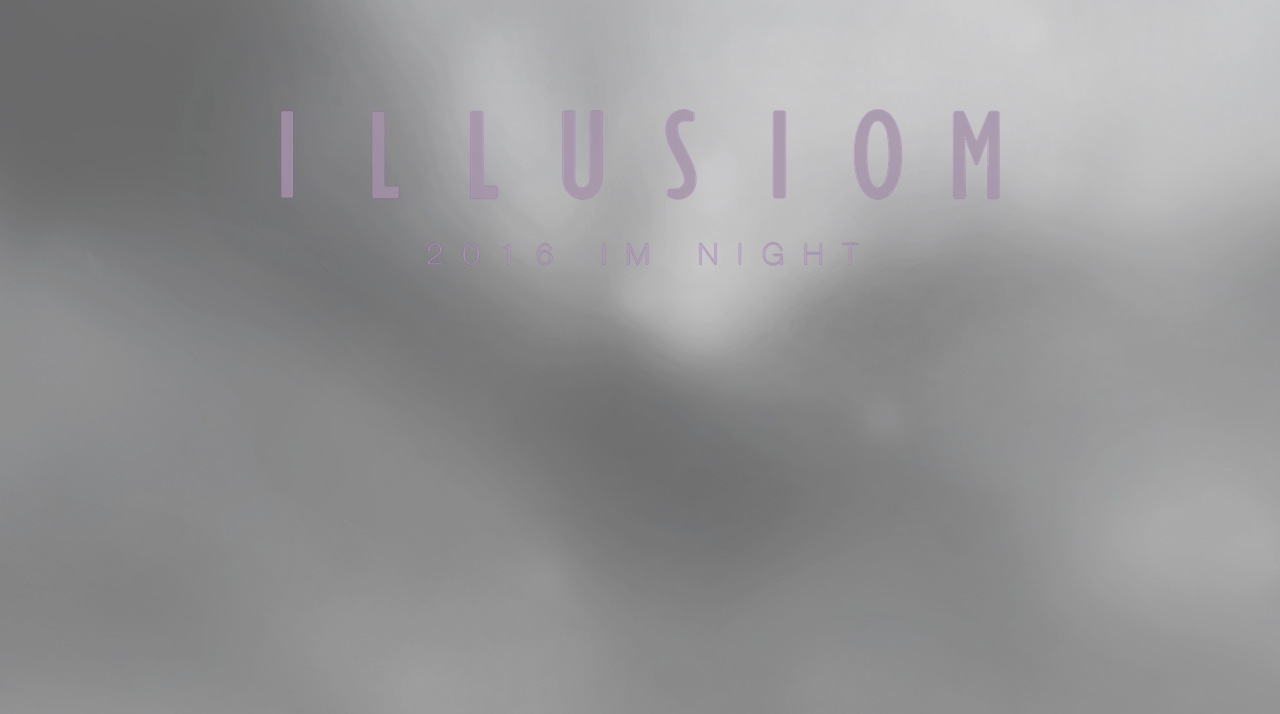
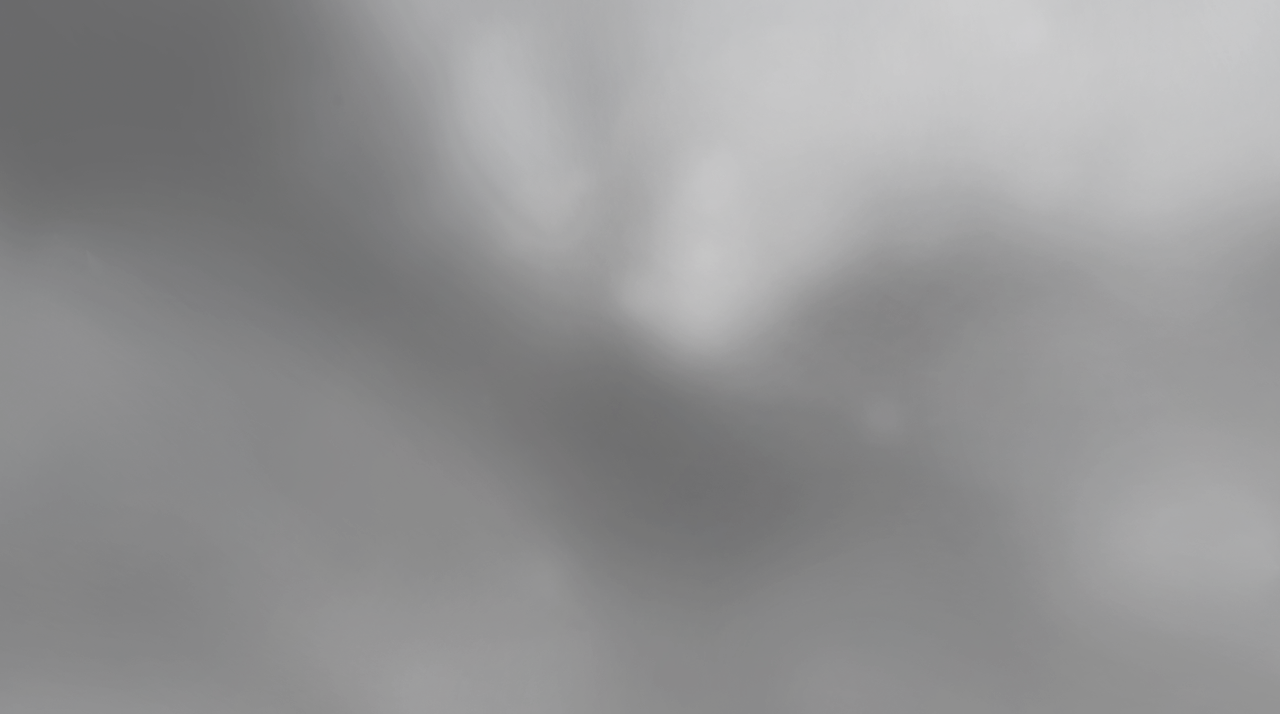
beta

diff --git a/index.html b/index.html
@@ -9,9 +9,15 @@
 		<script src="js/prefixfree.min.js"></script>
 	</head>
 	<body>
-		<img src="background.png" style="position: fixed;">
-		<canvas id="c" style="opacity: 0.2;"></canvas>
-		<div style="position: absolute; width: 100%; height: 100%; background: black; z-index: -1;"></div>
+		<canvas id="c" style="opacity: 0.2;"></canvas> <!--canvas-->
+		<div style="position: absolute; width: 100%; height: 100%; background: black; z-index: -1;">
+			<!--black-->
+		</div>
+		<img class="logo" src="logo.png">
+		<div class="content">
+			Comming soon
+		</div>
+		<img class="background" src="background.png"> <!--background-->
 
 		<script src='http://cdnjs.cloudflare.com/ajax/libs/jquery/2.1.3/jquery.min.js'></script>
 		<script src="js/index.js"></script>

diff --git a/style.css b/style.css
@@ -12,3 +12,29 @@ canvas {
 	height: 100%;
 	width: 100%;
 }
+
+.background {
+	position: fixed; 
+	top: 0;
+	height: 100%;
+	width: 100%;
+	z-index: -1;
+}
+
+.logo {
+	margin-left: 17%;
+	width: 66%;
+	margin-top: 7%;
+	opacity: 0.7;
+}
+
+.content {
+	width: 100%;
+	color: white;
+	text-align: center;
+	font-size: 1.8em;
+	margin-top: 5%;
+	font-weight: lighter;
+	z-index: 1;
+	opacity: 0.7;
+}
